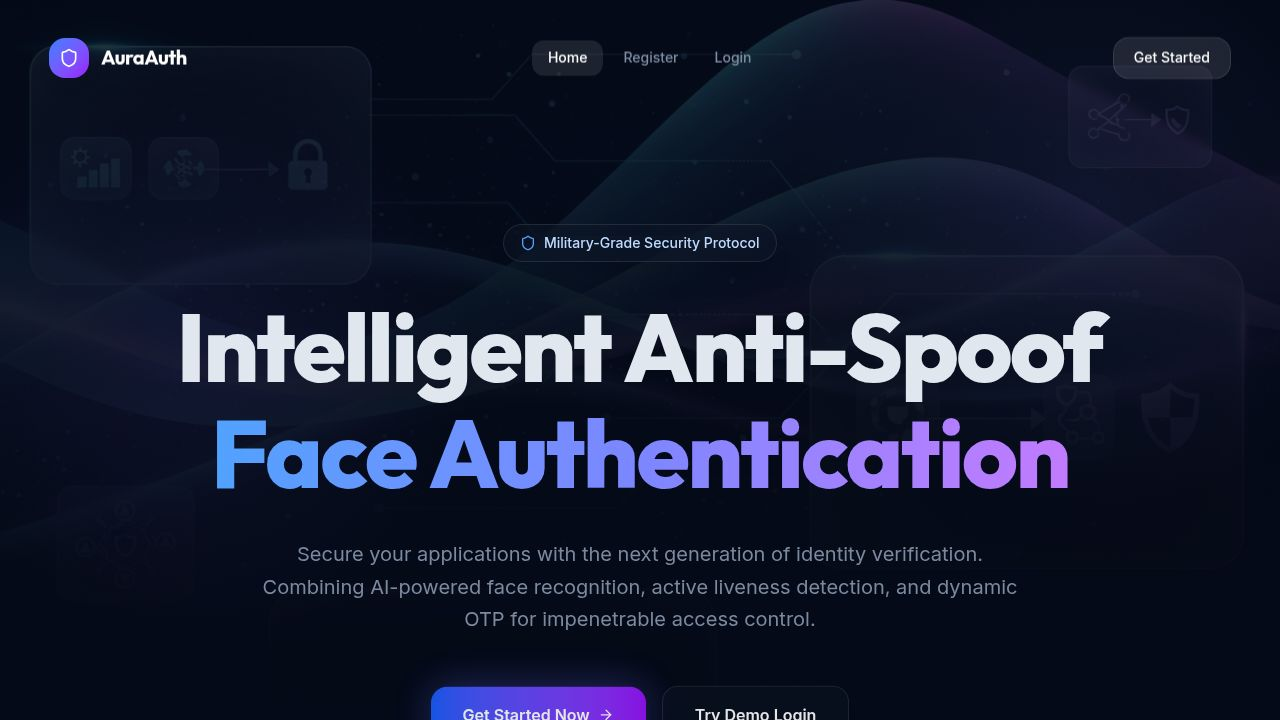
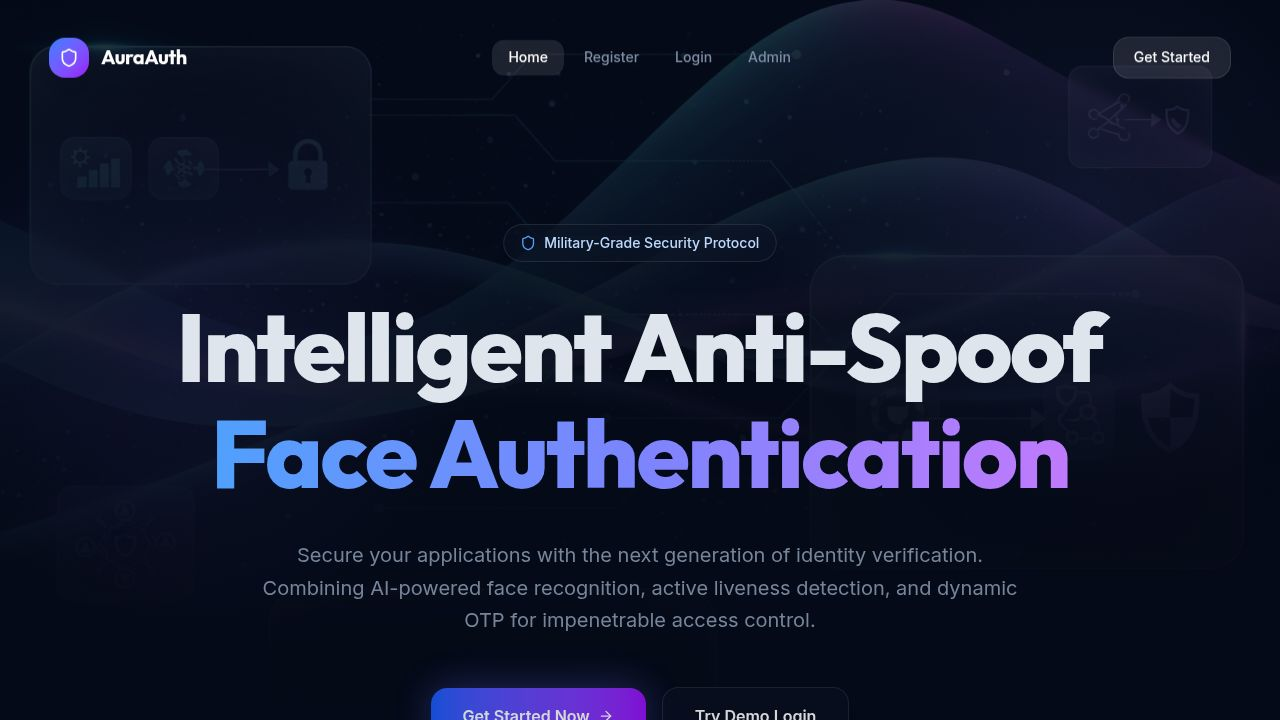
Add OTP verification and admin panel functionality to the system
Integrates a two-factor authentication system using OTP and introduces an admin panel for user management by adding new routes and updating existing components.

Replit-Commit-Author: Agent
Replit-Commit-Session-Id: a9b9cff6-a49b-4cf2-85f5-458733e102e5
Replit-Commit-Checkpoint-Type: full_checkpoint
Replit-Commit-Event-Id: f0f4f3b4-93b7-460b-95e4-323b4ed00a9e
Replit-Commit-Screenshot-Url: https://storage.googleapis.com/screenshot-production-us-central1/2d9c1cff-bd9d-432d-adfc-dbe081ac53e9/a9b9cff6-a49b-4cf2-85f5-458733e102e5/0ZasMOz
Replit-Helium-Checkpoint-Created: true

diff --git a/artifacts/face-auth/src/App.tsx b/artifacts/face-auth/src/App.tsx
@@ -6,6 +6,8 @@ import { TooltipProvider } from "@/components/ui/tooltip";
 import Home from "@/pages/Home";
 import Register from "@/pages/Register";
 import Login from "@/pages/Login";
+import AdminLogin from "@/pages/AdminLogin";
+import AdminDashboard from "@/pages/AdminDashboard";
 import NotFound from "@/pages/not-found";
 
 const queryClient = new QueryClient({
@@ -23,6 +25,8 @@ function Router() {
       <Route path="/" component={Home} />
       <Route path="/register" component={Register} />
       <Route path="/login" component={Login} />
+      <Route path="/admin" component={AdminLogin} />
+      <Route path="/admin/dashboard" component={AdminDashboard} />
       <Route component={NotFound} />
     </Switch>
   );

diff --git a/artifacts/face-auth/src/components/layout/Navbar.tsx b/artifacts/face-auth/src/components/layout/Navbar.tsx
@@ -1,6 +1,6 @@
 import { Link, useLocation } from "wouter";
 import { motion } from "framer-motion";
-import { Shield, Menu, X } from "lucide-react";
+import { Shield, Menu, X, ShieldCheck } from "lucide-react";
 import { useState, useEffect } from "react";
 import { cn } from "@/lib/utils";
 
@@ -21,6 +21,7 @@ export function Navbar() {
     { name: "Home", path: "/" },
     { name: "Register", path: "/register" },
     { name: "Login", path: "/login" },
+    { name: "Admin", path: "/admin" },
   ];
 
   return (

diff --git a/artifacts/face-auth/src/pages/Login.tsx b/artifacts/face-auth/src/pages/Login.tsx
@@ -996,7 +996,7 @@ export default function Login() {
                 </motion.div>
               )}
             </motion.div>
-          </div>
+          </div>}
         </div>
       </main>
     </div>
